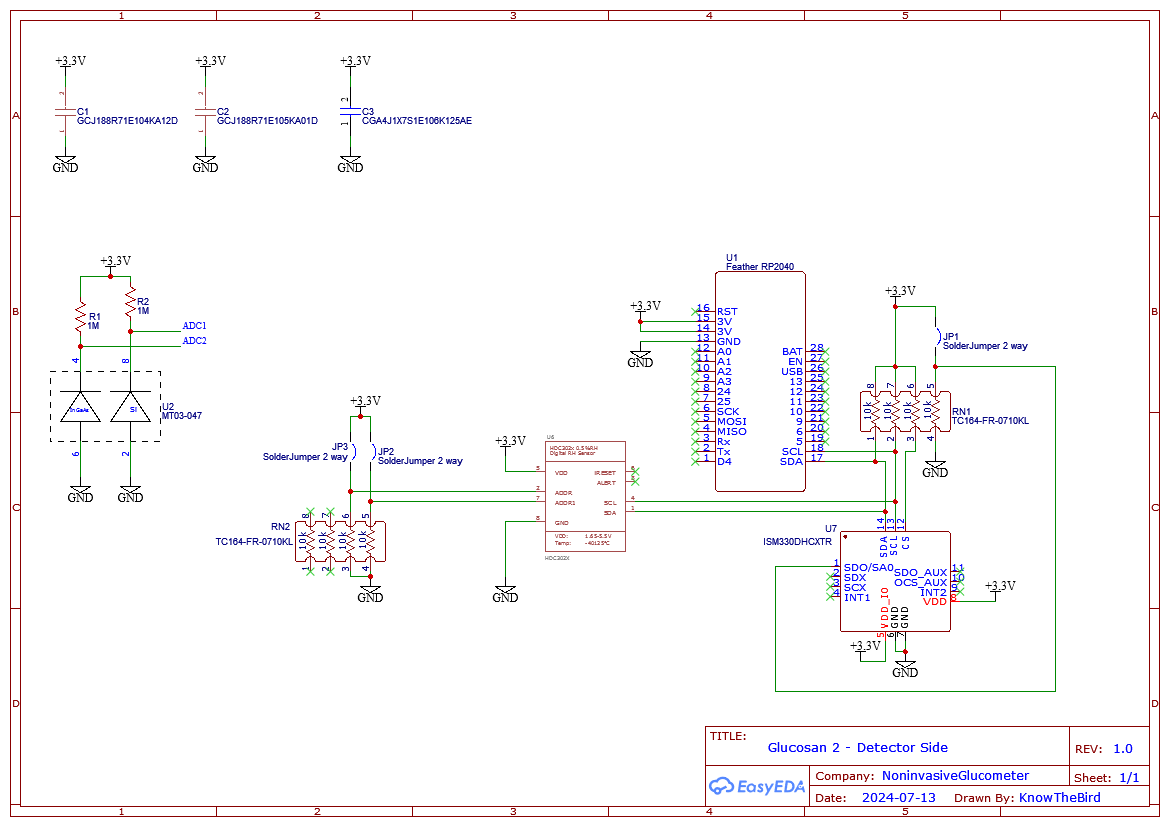
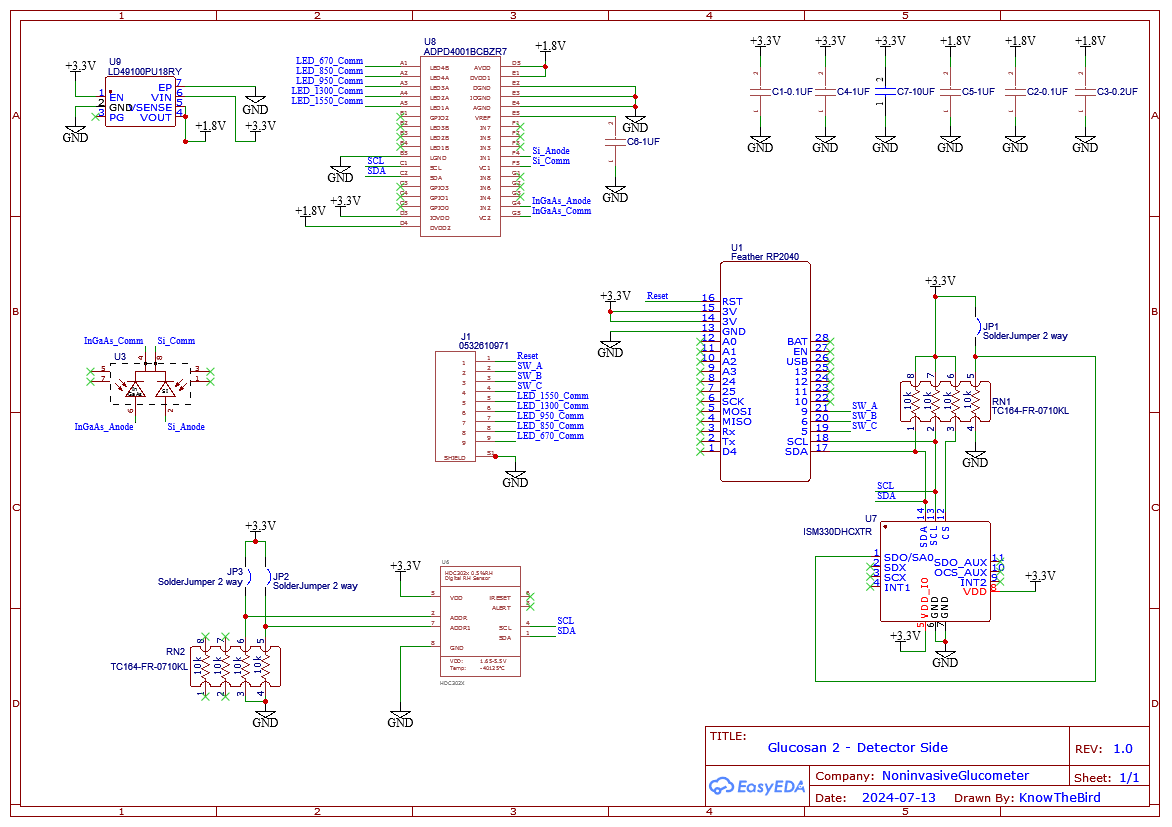
Update schematic for glucosan 2

diff --git a/README.md b/README.md
@@ -90,6 +90,7 @@ This repository is not an empty template for a competition. It also contains exa
 | Emitters   | 1 x 617nm, 1 x 940nm | 1 x 670nm, 1 x 850nm, 1 x 950nm, 1 x 1300nm, 1 x 1550nm |
 | Reflectance Detectors  | Phototransistors 1 x 630nm, 1 x 940nm (Si)  | None |
 | Transmittance Detectors   | Phototransistors 1 x 630nm, 1 x 940nm (Si) | Photodiodes, 1 x 950nm (Si), 1 x 1650nm (InGaAs) |
+| ADC | bypass caps, 12 bit resolution | analog front end IC, 14 bit resolution |
 | Core Platform   | Adafruit Feather M0 Adalogger | Adafruit Feather RP2040 Adalogger |
 | Display   | 128x64 OLED  | 128x64 OLED |
 | SD Card   | CSV or Binary Logging | CSV or Binary Logging |
@@ -99,7 +100,7 @@ This repository is not an empty template for a competition. It also contains exa
 | Size   | TODO  | TODO |
 | Weight   | TODO  | TODO |
 | Power   | TODO  | TODO |
-| Cost   | $48.33  | $169.00 |
+| Cost   | $48.33  | $188.31 |
 
 *So far with Glucosan 1, only weak correlations have been observed.  This has relatively little significance at this point though, because it has only logged a very small amount of data with a relatively small range of blood glucose levels.  Getting a large set of samples, with a range in blood glucose levels, to both train and test models, is a challenge for any new sensor developemnt.  Without a range of data, initial results, such as MARD or RMSE, can be very misleading.
 
